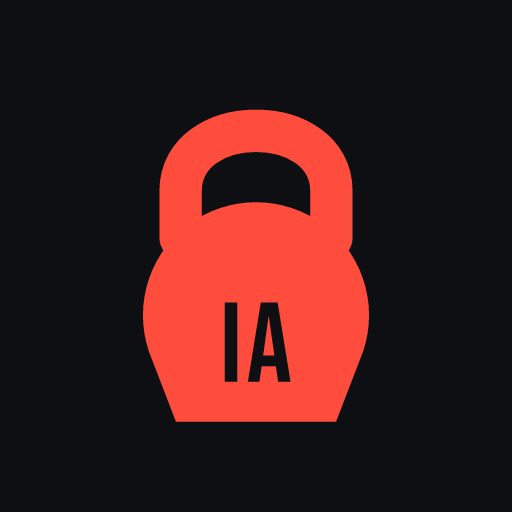
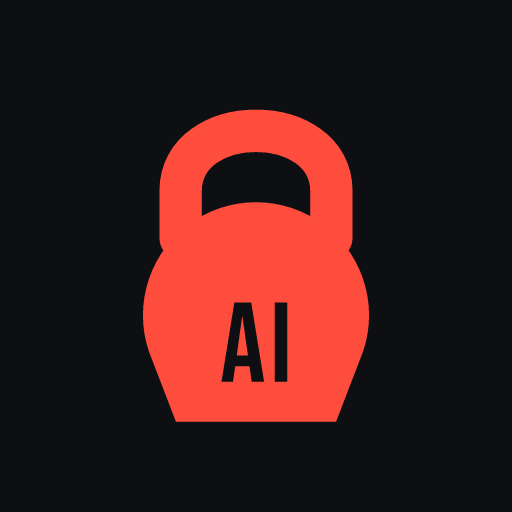
Cambiar la marca a KETTAI y agregar la pagina de presentacion

Changed region(s): [[0.4062, 0.5625, 0.5938, 0.75]]

diff --git a/marketing/index.html b/marketing/index.html
@@ -1,0 +1,252 @@
+<title>KETTAI</title>
+<meta name="viewport" content="width=device-width, initial-scale=1, viewport-fit=cover">
+<meta name="claude:viewport-fit-sides" content="cover">
+<meta name="description" content="Entrena fuerza con una kettlebell, tu cuerpo y un plan que cuida tus lesiones.">
+<link rel="icon" href="favicon.png">
+<link rel="preconnect" href="https://fonts.googleapis.com">
+<link rel="preconnect" href="https://fonts.gstatic.com" crossorigin>
+<link rel="stylesheet" href="https://fonts.googleapis.com/css2?family=Bebas+Neue&family=Barlow:wght@400;500;600;700&display=swap">
+<style>
+  /* Concepto: una sesión real de KETTAI. La marca oscura de la app, tipografía de reloj de gimnasio
+     y una gran banda roja que marca el golpe de la semana: fuerza primero. */
+  :root {
+    color-scheme: dark;
+    --bg: #0e0f13;
+    --surface: #1a1b22;
+    --surface-2: #272933;
+    --line: #333644;
+    --fg: #f4f4f7;
+    --muted: #a7aab8;
+    --red: #ff5040;
+    --red-ink: #1b0705;
+    --lime: #cdd63c;
+    --display: "Bebas Neue", "Arial Narrow", Impact, sans-serif;
+    --body: "Barlow", "Segoe UI", system-ui, sans-serif;
+  }
+  * { box-sizing: border-box; }
+  body {
+    margin: 0;
+    background: var(--bg);
+    color: var(--fg);
+    font-family: var(--body);
+    font-size: 18px;
+    line-height: 1.55;
+    overflow-x: hidden;
+  }
+  a { color: inherit; }
+  a:focus-visible { outline: 3px solid var(--lime); outline-offset: 3px; }
+  .wrap {
+    width: 100%;
+    max-width: 1140px;
+    margin-inline: auto;
+    padding-left: max(20px, env(safe-area-inset-left, 0px));
+    padding-right: max(20px, env(safe-area-inset-right, 0px));
+  }
+  h1, h2, h3 { font-family: var(--display); font-weight: 400; letter-spacing: .01em; margin: 0; text-wrap: balance; }
+  h2 { font-size: clamp(44px, 7vw, 76px); line-height: .98; }
+  h3 { font-size: 30px; line-height: 1.05; }
+  p { margin: 0; }
+  .lead { color: var(--muted); font-size: 20px; max-width: 58ch; }
+  .label { color: var(--red); font-size: 14px; font-weight: 700; letter-spacing: .09em; text-transform: uppercase; }
+
+  header { padding-block: 22px; }
+  .brand { display: flex; align-items: center; gap: 12px; font-family: var(--display); font-size: 30px; }
+  .brand img { width: 42px; height: 42px; border-radius: 10px; }
+
+  .hero { display: grid; grid-template-columns: minmax(0, 1.25fr) minmax(0, .75fr); gap: 56px; align-items: center; padding-block: 32px 80px; }
+  .hero-copy { display: grid; gap: 24px; min-width: 0; }
+  h1 { font-size: clamp(66px, 11vw, 132px); line-height: .9; }
+  h1 span { color: var(--red); }
+  .actions { display: flex; flex-wrap: wrap; gap: 12px; align-items: center; }
+  .button {
+    display: inline-block;
+    background: var(--red);
+    color: var(--red-ink);
+    font-weight: 700;
+    padding: 15px 28px;
+    border-radius: 99px;
+    text-decoration: none;
+    transition: transform .15s ease;
+  }
+  .button:hover { transform: translateY(-2px); }
+  .quiet { color: var(--muted); font-weight: 600; text-underline-offset: 4px; }
+
+  .phone {
+    justify-self: center;
+    width: min(100%, 320px);
+    background: var(--bg);
+    border: 8px solid var(--surface-2);
+    border-radius: 40px;
+    padding: 24px 18px 20px;
+    display: grid;
+    gap: 16px;
+  }
+  .phone-top { text-align: center; color: var(--muted); font-size: 13px; }
+  .phone-top b { display: block; color: var(--fg); font-size: 16px; }
+  .phone small { color: var(--red); font-size: 11px; font-weight: 700; letter-spacing: .08em; }
+  .phone h3 { font-family: var(--body); font-size: 26px; font-weight: 700; }
+  .set { background: var(--surface); border-radius: 18px; padding: 16px; display: grid; gap: 8px; text-align: center; }
+  .set span { color: var(--muted); font-size: 13px; font-weight: 600; }
+  .set strong { font-size: 25px; }
+  .done { background: var(--red); color: var(--red-ink); border-radius: 99px; padding: 11px; font-weight: 700; }
+  .clock { text-align: center; font-family: var(--display); font-size: 78px; line-height: 1; font-variant-numeric: tabular-nums; }
+  .clock span { display: block; color: var(--muted); font-family: var(--body); font-size: 12px; font-weight: 600; line-height: 1.8; }
+
+  .band { background: var(--red); color: var(--red-ink); }
+  .band .wrap { display: grid; grid-template-columns: repeat(3, minmax(0, 1fr)); gap: 24px; padding-block: 34px; }
+  .band div div { font-family: var(--display); font-size: 42px; line-height: 1; }
+  .band p { font-weight: 600; font-size: 16px; }
+
+  section { padding-block: 86px; }
+  .section-head { display: grid; gap: 16px; margin-bottom: 44px; }
+  .split { display: grid; grid-template-columns: minmax(0, 1fr) minmax(0, 1fr); gap: 56px; align-items: start; }
+
+  .care { display: grid; gap: 0; border-top: 1px solid var(--line); }
+  .care article { display: grid; gap: 4px; padding-block: 20px; border-bottom: 1px solid var(--line); }
+  .care span { color: var(--muted); }
+  .care strong { font-size: 19px; }
+
+  .abc { display: grid; grid-template-columns: repeat(3, minmax(0, 1fr)); gap: 12px; }
+  .abc article { background: var(--surface); border-radius: 18px; padding: 24px; display: grid; gap: 8px; align-content: start; }
+  .abc b { font-family: var(--display); font-size: 68px; line-height: .9; color: var(--red); font-weight: 400; }
+  .abc p { color: var(--muted); font-size: 16px; }
+  .weeks { display: grid; grid-template-columns: repeat(4, minmax(0, 1fr)); gap: 1px; background: var(--line); margin-top: 44px; border: 1px solid var(--line); border-radius: 14px; overflow: hidden; }
+  .weeks div { background: var(--bg); padding: 20px; display: grid; gap: 2px; min-width: 0; }
+  .weeks span { color: var(--muted); font-size: 14px; }
+  .weeks strong { font-family: var(--display); font-size: 28px; font-weight: 400; }
+
+  .loop { background: var(--surface); }
+  .history { display: grid; grid-template-columns: repeat(3, minmax(0, 1fr)); gap: 28px; }
+  .history h3 { color: var(--lime); }
+  .history p { color: var(--muted); margin-top: 8px; font-size: 17px; }
+
+  .extras { display: grid; grid-template-columns: repeat(2, minmax(0, 1fr)); gap: 14px; }
+  .extras article { border: 1px solid var(--line); border-radius: 18px; padding: 28px; display: grid; gap: 10px; align-content: start; }
+  .extras p { color: var(--muted); }
+
+  .final { text-align: center; padding-block: 92px 48px; }
+  .final .wrap { display: grid; gap: 22px; justify-items: center; }
+  .final h2 { font-size: clamp(54px, 9vw, 104px); }
+  footer { color: var(--muted); font-size: 14px; padding-block: 24px 42px; }
+  footer p { max-width: 72ch; }
+
+  @media (max-width: 880px) {
+    .hero, .split { grid-template-columns: minmax(0, 1fr); gap: 40px; }
+    .hero { padding-bottom: 56px; }
+    section { padding-block: 62px; }
+  }
+  @media (max-width: 680px) {
+    .band .wrap, .abc, .history, .extras { grid-template-columns: minmax(0, 1fr); }
+    .weeks { grid-template-columns: repeat(2, minmax(0, 1fr)); }
+    body { font-size: 17px; }
+  }
+  @media (prefers-reduced-motion: reduce) { .button { transition: none; } }
+</style>
+
+<header class="wrap">
+  <div class="brand"><img src="icon.png" alt="Logo de KETTAI">KETTAI</div>
+</header>
+
+<main>
+  <div class="wrap hero">
+    <div class="hero-copy">
+      <p class="label">Una kettlebell, tu cuerpo y un plan</p>
+      <h1>La fuerza es la madre de <span>todas las batallas</span></h1>
+      <p class="lead">Entrena en casa o en el parque, sin gimnasio. KETTAI cuida tus lesiones, ordena tu entrenamiento y usa tu historial para armar cada semana mejor.</p>
+      <div class="actions">
+        <a class="button" href="https://rodperezm.github.io/entrenador-ia/">Probar KETTAI</a>
+        <a class="quiet" href="#plan">Ver cómo se arma tu plan</a>
+      </div>
+    </div>
+    <div class="phone" aria-label="Ejemplo del entrenamiento guiado en la app">
+      <div class="phone-top"><b>Viernes</b>12:24 · 15/22 series</div>
+      <small>FUERZA · EJERCICIO 7 DE 9</small>
+      <h3>Remo gorila</h3>
+      <div class="set"><span>Serie 2 de 3</span><strong>8 reps · 12 kg</strong><div class="done">✓ Hecha</div></div>
+      <div class="clock">12:24<span>Tiempo de entrenamiento</span></div>
+    </div>
+  </div>
+
+  <div class="band">
+    <div class="wrap">
+      <div><div>1 kettlebell</div><p>Con una basta para empezar.</p></div>
+      <div><div>Casa o parque</div><p>Tu rutina usa lo que tienes.</p></div>
+      <div><div>Tus minutos</div><p>El plan se ajusta al tiempo de cada día.</p></div>
+    </div>
+  </div>
+
+  <section>
+    <div class="wrap split">
+      <div class="section-head">
+        <p class="label">Te cuidamos</p>
+        <h2>Entrena fuerte. Cuida lo que duele.</h2>
+        <p class="lead">Una lesión no debería sacarte del camino. La app adapta el entrenamiento desde el primer día y te acompaña durante cada sesión.</p>
+      </div>
+      <div class="care">
+        <article><strong>Antes</strong><span>Marcas tus lesiones y evitamos los movimientos que debes cuidar.</span></article>
+        <article><strong>Durante</strong><span>Si algo duele, puedes aliviar el ejercicio, cambiarlo o parar.</span></article>
+        <article><strong>Después</strong><span>La próxima rutina toma en cuenta tu esfuerzo y tu dolor.</span></article>
+      </div>
+    </div>
+  </section>
+
+  <section id="plan">
+    <div class="wrap">
+      <div class="section-head">
+        <p class="label">Lógica de entrenamiento + IA</p>
+        <h2>Tu plan tiene un método</h2>
+        <p class="lead">Las reglas de entrenamiento ponen orden y seguridad. La IA combina tu perfil, tus lesiones y tu historial para entregarte el mejor plan para tu semana.</p>
+      </div>
+      <div class="abc">
+        <article><b>A</b><h3>Potencia</h3><p>Swings y movimientos explosivos, con pocas repeticiones de calidad.</p></article>
+        <article><b>B</b><h3>Fuerza</h3><p>Sentadillas, presses y remos: baja en 3 segundos y sube rápido.</p></article>
+        <article><b>C</b><h3>Remate</h3><p>Un cierre intenso y opcional, si te queda tiempo.</p></article>
+      </div>
+      <div class="weeks" aria-label="Bloque de cuatro semanas">
+        <div><span>Semana 1</span><strong>Introductoria</strong><span>Tomas el ritmo</span></div>
+        <div><span>Semana 2</span><strong>Base</strong><span>Sumas series</span></div>
+        <div><span>Semana 3</span><strong>Choque</strong><span>Más exigencia</span></div>
+        <div><span>Semana 4</span><strong>Descarga</strong><span>Te recuperas</span></div>
+      </div>
+    </div>
+  </section>
+
+  <section class="loop">
+    <div class="wrap">
+      <div class="section-head">
+        <p class="label">Tu historial</p>
+        <h2>Cada entrenamiento mejora el siguiente</h2>
+      </div>
+      <div class="history">
+        <article><h3>Registras</h3><p>Series, carga, esfuerzo y dolor, con un toque mientras entrenas.</p></article>
+        <article><h3>Recordamos</h3><p>Tu historial queda guardado para ver cómo respondes.</p></article>
+        <article><h3>Planificamos</h3><p>La próxima semana parte de lo que hiciste, no desde cero.</p></article>
+      </div>
+    </div>
+  </section>
+
+  <section>
+    <div class="wrap">
+      <div class="section-head">
+        <p class="label">Además</p>
+        <h2>Todo en el mismo lugar</h2>
+      </div>
+      <div class="extras">
+        <article><h3>Medidas corporales</h3><p>Registra peso, perímetros y pliegues. Sigue tu IMC, tu relación cintura-altura y tu porcentaje de grasa.</p></article>
+        <article><h3>Temporizador Tabata/HIIT</h3><p>Configura rondas, ejercicios y descansos, con pitidos y voz para no mirar la pantalla.</p></article>
+      </div>
+    </div>
+  </section>
+
+  <section class="final">
+    <div class="wrap">
+      <h2>Empieza con lo que tienes</h2>
+      <p class="lead">Una kettlebell y tu próximo entrenamiento.</p>
+      <a class="button" href="https://rodperezm.github.io/entrenador-ia/">Probar KETTAI</a>
+    </div>
+  </section>
+</main>
+
+<footer class="wrap">
+  <p>KETTAI no reemplaza la evaluación ni la indicación de un médico, kinesiólogo u otro profesional de la salud. Si sientes dolor durante un ejercicio, detente.</p>
+</footer>

diff --git a/src/features/onboarding/steps.tsx b/src/features/onboarding/steps.tsx
@@ -72,8 +72,8 @@ export function IntroScreen({ onStart }: { onStart: () => void }) {
   return (
     <View style={[styles.intro, { paddingTop: insets.top, paddingBottom: Math.max(insets.bottom, spacing.lg) }]}>
       <ScrollView contentContainerStyle={styles.introContent}>
-        <Image source={require('../../../assets/icon.png')} style={styles.introLogo} accessibilityLabel="Logo de KettleIA" />
-        <Text style={[styles.introBrand, display]}>KettleIA</Text>
+        <Image source={require('../../../assets/icon.png')} style={styles.introLogo} accessibilityLabel="Logo de KETTAI" />
+        <Text style={[styles.introBrand, display]}>KETTAI</Text>
         <Text style={[styles.introHeadline, display]}>Entrena fuerte.{'\n'}Cuida lo que duele.</Text>
         <Text style={styles.introBody}>
           La fuerza es la madre de todas las batallas. Solo necesitas una kettlebell, tu cuerpo y un plan que respeta tus

diff --git a/public/index.html b/public/index.html
@@ -13,7 +13,7 @@
     <meta name="apple-mobile-web-app-capable" content="yes" />
     <meta name="mobile-web-app-capable" content="yes" />
     <meta name="apple-mobile-web-app-status-bar-style" content="black-translucent" />
-    <meta name="apple-mobile-web-app-title" content="KettleIA" />
+    <meta name="apple-mobile-web-app-title" content="KETTAI" />
     <!-- The `react-native-web` recommended style reset: https://necolas.github.io/react-native-web/docs/setup/#root-element -->
     <script>
       // Si falla un archivo de la app (página guardada de otra versión), recarga una vez por minuto.

diff --git a/src/app/account.tsx b/src/app/account.tsx
@@ -181,12 +181,12 @@ function BackupActive() {
     if (Platform.OS === 'web') {
       const link = document.createElement('a');
       link.href = URL.createObjectURL(new Blob([json], { type: 'application/json' }));
-      link.download = 'mis-datos-kettleia.json';
+      link.download = 'mis-datos-kettai.json';
       link.click();
       URL.revokeObjectURL(link.href);
       return;
     }
-    await Share.share({ title: 'Mis datos de KettleIA', message: json });
+    await Share.share({ title: 'Mis datos de KETTAI', message: json });
   };
 
   const askSignOut = () =>

diff --git a/src/app/privacy.tsx b/src/app/privacy.tsx
@@ -25,7 +25,7 @@ const SECTIONS = [
   },
   {
     title: 'Importante',
-    body: 'KettleIA no reemplaza a un médico, kinesiólogo u otro profesional de la salud.',
+    body: 'KETTAI no reemplaza a un médico, kinesiólogo u otro profesional de la salud.',
   },
 ];
 

diff --git a/README.md b/README.md
@@ -1,4 +1,4 @@
-# KettleIA
+# KETTAI
 
 App móvil de entrenamiento con kettlebell (Expo + React Native + TypeScript).
 
